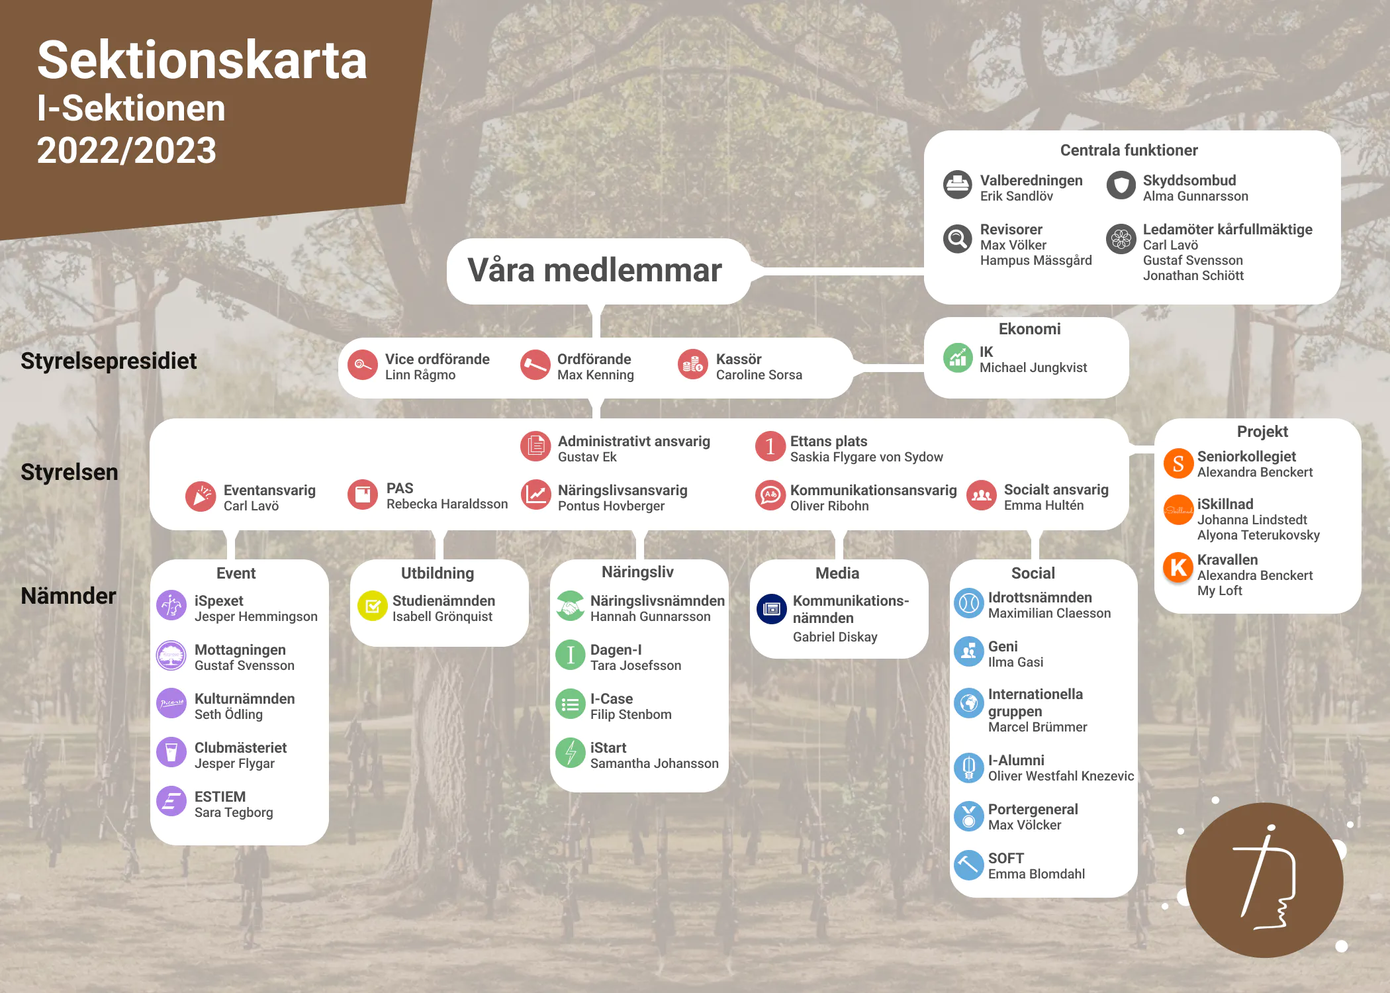
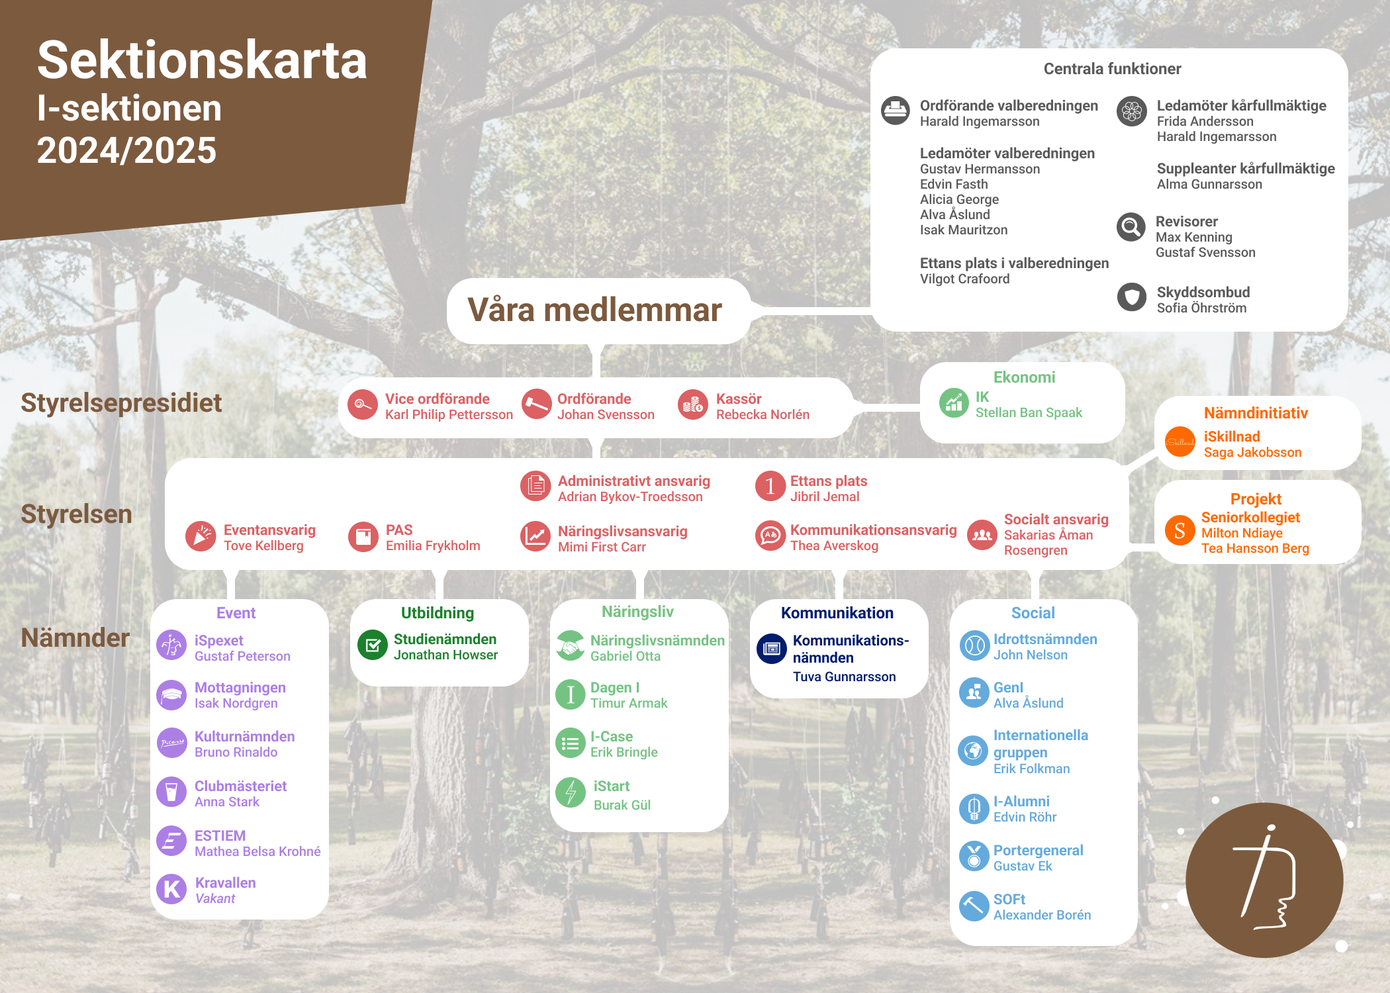
Small fixes + content changes

diff --git a/src/components/HomepageFeatures/styles.module.css b/src/components/HomepageFeatures/styles.module.css
@@ -21,8 +21,8 @@
 }
 
 .eventCard:hover {
-  transform: translateY(-5px);
-  box-shadow: 0 4px 12px rgba(0, 0, 0, 0.15);
+  #transform: translateY(-5px);
+  #box-shadow: 0 4px 12px rgba(0, 0, 0, 0.15);
 }
 
 .eventCard h3 {

diff --git a/i18n/en/docusaurus-plugin-content-docs/current/event/reception.md b/i18n/en/docusaurus-plugin-content-docs/current/event/reception.md
@@ -1,11 +1,9 @@
 # The reception
 
-The reception is one of the chapter's biggest events with over 140 members. The reception is about welcoming the new generation of i-are in the absolute best way, with porter-brown ovvar and schmeck. With two weeks until the start of the semester, we gather on campus and welcome the newly admitted students in the best way we can!
+The reception is about welcoming the new generation of I-are in the absolute best way, with porter-brown ovvars and schmecks. With two weeks until the start of the semester, we gather on campus and welcome the newly admitted students in the best way we can! The reception is the section's biggest event with over 170 members who are there for zero!
 
-The reception is managed by MSG (The reception steering group), with elected ÖPH at the head, which in December starts planning the project alongside the studies. Towards the spring, the Phöset are recruited who ensure that the n0ll's reception experience is the absolute best possible, and the sights are set on August when the entire campus is colored with ovvars and frock coats from all possible chapters. How long does the reception last? It's the best, it lasts as long as needed! Rumor has it that it lasted a year until Christmas...
+The reception is managed by MSG (The reception steering group), with elected ÖPH at the head, which in December starts planning the project alongside the studies. Towards the spring, Phöset is recruited, who ensure that the n0ll's reception experience is the absolute best possible, and the sights are set on August when the entire campus is colored with ovvars and frock coats from all possible sections. How long does the reception last? It's the best, it lasts as long as needed! Rumor has it that it lasted a year until Christmas...
 
-For the past two years, reception has been able to be carried out physically, despite the current pandemic situation, and the reception steering group is continuously evaluating how we can give the newly admitted the absolute best reception, in an infection-proof way.
+Are you thinking of applying for Industrial Economics or are you even a newly admitted I student waiting for Reception to begin? Then you really have something to look forward to! You are on your way to a real adventure and no matter who you are, you will be part of the I section - a place with strong community, lots of laughs and the opportunity for great development. Only the imagination sets limits to where your journey will take you, but one thing is certain is that it starts with the Reception! Phöset looks forward to meeting you and promises to do everything to welcome you in the best possible way, no matter who you are or where you come from. You will soon notice that the Reception consists of several secrets and you will get many surprises along the way, so join us and experience a time you will never forget!
 
-Are you thinking of applying for Industrial Economics or are you even a newly admitted i-are waiting for the Reception to begin? Then you really have something to look forward to! You are on your way to a real adventure and no matter who you are, you will be part of the I chapter - a place with strong community, lots of laughs and the opportunity for great development. Only the imagination sets limits to where your journey will take you, but one thing is certain is that it starts with the Reception! Phöset looks forward to meeting you and promises to do everything to welcome you in the best possible way, no matter who you are or where you come from. You will soon notice that the Reception consists of several secrets and you will get many surprises along the way, so join us and experience a time you will never forget!
-
-Do not hesitate to contact Reception Manager ÖPH Gustaf Svensson at oph@iare.nu if you have any questions. Have a good time and see you soon!
+Do not hesitate to contact Reception Manager ÖPH Isak Nordgren at oph@iare.nu if you have any questions. Have a good time and see you soon!

diff --git a/i18n/en/docusaurus-plugin-content-docs/current/central/valberedningen.md b/i18n/en/docusaurus-plugin-content-docs/current/central/valberedningen.md
@@ -1,16 +1,16 @@
 # Election Committee
 
-The Election Committee
-The chapter's Election Committee consists of three to seven elected members, of which one is the elected President and one seat is reserved for Ettan. The task of the election committee is to promote and manage the election process of all elected positions in the chapter before and during each chapter meeting. In practice, the election process is as follows:
+The election committee at the section consists of three to seven elected members, one of whom is the elected Chairman and one place is reserved for One. The election committee's task is to promote and manage the election process for all elected positions on the section before and during each section meeting. In practical terms, the selection process is as follows:
 
-The election committee opens the application period.
-Interested candidates apply and are then interviewed by the Election Committee.
-Once the Committee has interviewed all the candidates for a particular post, it produces a preamble, or recommendation, which is simply a justification of which candidate it considers most suitable for the post.
-The electoral committee moderates the elections during the associated chapter meeting where all candidates can give speeches and are then elected by the chapter members who attend. It is also possible to run for a position on the spot.
-The Election Committee takes great care to maintain the integrity of all applicants and to make the process as impartial and equal for all as possible. Nomination Committee interviews are designed to prepare the candidate for the SM and is a chance to brainstorm ideas for their speech and ask questions. The Election Committee uses the interview as a basis for compiling a list of candidates for each position - a very difficult task as all the applicant chapter members of the I-chapter are usually highly suitable - and it is worth pointing out that it is the chapter that ultimately chooses the elected representative and the Election Committee therefore encourages all candidates to continue their candidacy regardless of who was nominated.
+1. The selection committee opens the application period.
+2. Interested candidates apply and may then attend an interview with the Selection Committee.
+3. When the selection committee has interviewed all the candidates for a certain position, they draw up a preliminary statement, or recommendation, which is simply a justification for which candidate they consider to be the most suitable for the position.
+4. The election committee moderates the elections themselves during the associated section meeting where all candidates are allowed to give speeches and one/several are then elected by the section members who attend. It is also possible to apply for a post on site.
+
+The selection committee attaches great importance to maintaining the integrity of all applicants and to managing the process as impartially and equally for everyone as possible. The selection committee's interviews are for preparing the candidate for SM and are a chance to brainstorm ideas before their speech and ask questions. The selection committee uses the interview as a basis for compiling a foreword for each position - a very difficult task as all applicant section members of the I-Section are usually highly suitable - and it is worth pointing out that it is the section that ultimately chooses the elected representative and the selection committee encourages therefore all candidates to continue their candidacy regardless of who was nominated.
 
 ### President
 
-__Atle Johansson__ I-21 valberedningen@iare.nu
+__Harald Ingemarsson__ I-22 valberedningen@iare.nu
 
 <img src={require("/static/img/Atle.png").default} width="230"/>

diff --git a/docs/event/reception.md b/docs/event/reception.md
@@ -1,11 +1,9 @@
 # Mottagningen
 
-Mottagningen är en av sektionens största event med över 140 medlemmar. Mottagningen handlar om att på absolut bästa sätt, med porterbruna ovvar och schmeck, välkomna den nya generationen i-are. Med två veckor till terminsstart samlas vi på campus och tar emot de nyantagna på det bästa sättet vi kan!
+Mottagningen handlar om att på absolut bästa sätt, med porterbruna ovvar och schmeckar, välkomna den nya generationen I-are. Med två veckor till terminsstart samlas vi på campus och tar emot de nyantagna på det bästa sättet vi kan! Mottagningen är sektionens största event med över 170 medlemmar som finns där för n0llans skull!
 
 Mottagningen styrs av MSG (Mottagningens styrgrupp), med förtroendevalda ÖPH i spetsen, som i december börjar planera projektet vid sidan av studierna. Mot våren rekryteras Phöset som är de som ser till att n0llans Mottagningsupplevelse blir den absolut bästa möjliga, och siktet ställs in på augusti när hela campus färgläggs med ovvar och frackar från alla möjliga sektioner. Hur länge pågår då Mottagningen? Det är det bästa, den håller på så länge det behövs! Ryktet sägs att den ett år hållit på ända till jul...
 
-De senaste två åren har Mottagningen, trots nuvarande pandemiläge, kunnat genomföras fysiskt och Mottagningens styrgrupp utvärderar kontinuerligt hur vi kan ge de nyantagna den absolut bästa Mottagningen, på ett smittsäkert sätt.
-
-Funderar du på att söka Industriell Ekonomi eller är du till och med en nyantagen i-are som väntar på att Mottagningen ska börja? Då har du verkligen någonting att se fram emot! Du är på väg mot ett riktigt äventyr och oavsett vem du är så kommer du bli en del av I-sektionen – en plats med stark gemenskap, många skratt och möjlighet till stor utveckling. Bara fantasin sätter gränser för vart din resa leder dig, men något som är säkert är att det börjar med Mottagningen! Phöset ser fram emot att träffa dig och lovar att göra allt för att välkomna dig på bästa sätt, oavsett vem du är eller var du kommer ifrån. Du kommer snart märka att Mottagningen består av flera hemligheter och du kommer få många överraskningar längs vägens gång, så häng med oss och upplev en tid du aldrig kommer glömma!
+Funderar du på att söka Industriell Ekonomi eller är du till och med en nyantagen I-are som väntar på att Mottagningen ska börja? Då har du verkligen någonting att se fram emot! Du är på väg mot ett riktigt äventyr och oavsett vem du är så kommer du bli en del av I-sektionen – en plats med stark gemenskap, många skratt och möjlighet till stor utveckling. Bara fantasin sätter gränser för vart din resa leder dig, men något som är säkert är att det börjar med Mottagningen! Phöset ser fram emot att träffa dig och lovar att göra allt för att välkomna dig på bästa sätt, oavsett vem du är eller var du kommer ifrån. Du kommer snart märka att Mottagningen består av flera hemligheter och du kommer få många överraskningar längs vägens gång, så häng med oss och upplev en tid du aldrig kommer glömma!
 
 Tveka dig inte att höra av dig till Mottagningsansvariga ÖPH Isak Nordgren på oph@iare.nu om du har några som helst frågor. Ha det bra så ses vi snart!

diff --git a/docs/event/culture.md b/docs/event/culture.md
@@ -1,21 +1,17 @@
 # Kulturnämnden
 
-## Verksamhet
+### Verksamhet
+Kulturnämnden är en relativt nystartad nämnd och är en av de nämnder inom sektionen som har lösast definierat syfte, vilket innebär att vi har mycket frihet i det vi gör! Några vinnande koncept inom nämnden under åren har varit ost- och vinprovningar, kompissittningar och Tunnelbanesittningen. 
 
-Kulturnämnden består av cirka fyrtio I-are som brinner för att anordna event och sittningar med en underton av kultur. Trots att Kulturnämnden är en av sektionens yngre nämnder har vi redan gjort ett avsevärt och bestående intryck på sektionens traditioner och verksamhet; Tunnelbanesittningen, där I-are i par ges chansen att äta middag med och hos två andra par I-are, är redan en älskad klassiker, och under Kompissittningen, som gjorde en efterlängtad comeback förra året, ges I-aren chansen att visa en utomstående hur en riktig sittning på I går till. Utöver detta kommer andra event, som Midsommarsittning, Ost- och Vinprovning, samt olika pubar och fikan, arrangeras. För första gången någonsin kommer vi dessutom vara I-sektionens ansikte utåt under Valborgspubrundan, och allt detta kommer självklart att varvas med en hel del roliga internevent.
-
-## Organisation
-
-Som medlem i Kulturnämnden blir du en del av en tajt projektgrupp där vi tillsammans planerar och genomför roliga event, med målet att förgylla varje I-ares studietid. Det innebär rent praktiskt att bidra med tankar och idéer, stå i baren, laga mat, dekorera, styra musiken, blanda drinkar, och självklart städa efteråt! Vi söker dig som är engagerad, nytänkande, vet hur man festar med stil och finess, och gillar att komma först och gå sist. På grund av nämndens unga ålder finns det även stora möjligheter att sätta sin egen prägel på nämnden. Kanske blir just du den som inför nästa stora tradition till sektionen?
-
-Vill du liksom oss förgylla varje I-ares studietid med spännande och nytänkande event har du hittat helt rätt! Hoppas vi ses på våra event under året!
-
+### Organisation
+Nämnden består av ca 40 studenter, vilket är perfekt för att lära känna folk på sektionen, dels i den egna årskursen, men även studenter i andra årskurser. Som medlem är du med i ett skönt gäng där vi tillsammans utvecklar och kommer på nya idéer till våra event där målet är att skapa ett spännande och händelserikt studentliv på sidan om studierna. Vi hoppas att vi ses på våra events under året!
 
 
 ## Kulturattaché
 
-__Selma Hagelin__ I-22
+__Bruno Rinaldo__ I-23
 
 kultur@iare.nu
 
-<img src={require("/static/img/Selma.jpg").default} width="230"/>
+<img src={require("/static/img/selma.jpg").default} width="230"/>
+

diff --git a/i18n/en/docusaurus-plugin-content-docs/current/event/culture.md b/i18n/en/docusaurus-plugin-content-docs/current/event/culture.md
@@ -1,20 +1,15 @@
 # Culture Committee
 
 ## Activities
-
-The Culture Committee consists of about forty I-ers who are passionate about organizing events and meetings with an undertone of culture. Even though the Culture Committee is one of the chapter's younger committees, we have already made a significant and lasting impression on the chapter's traditions and activities; the Subway Sitting, where I-ers in pairs are given the chance to have dinner with and at two other pairs of I-ers, is already a beloved classic, and during the Compass Sitting, which made a long-awaited comeback last year, the I-ers are given the chance to show an outsider how a real sitting on the I goes. In addition to this, other events, such as Midsummer Sitting, Cheese and Wine Tasting, as well as various pubs and fika, will be arranged. For the first time ever, we will also be the face of the I-chapter during Valborgspubrundan, and all this will of course be interspersed with a lot of fun internal events.
+The culture board is a relatively new board and is one of the boards within the section that has the most loosely defined purpose, which means that we have a lot of freedom in what we do! Some winning concepts within the committee over the years have been cheese and wine tastings, friend sittings and the Subway sitting.
 
 ## Organisation
 
-As a member of the Cultural Committee, you will be part of a tight project group where we together plan and implement fun events, with the goal of brightening each first-year's study time. In practical terms, this means contributing thoughts and ideas, standing at the bar, cooking, decorating, controlling the music, mixing drinks, and of course cleaning up afterwards! We are looking for someone who is committed, innovative, knows how to party with style and finesse, and likes to arrive first and leave last. Due to the committee's young age, there are also great opportunities to put one's own stamp on the committee. Perhaps you will be the only one to introduce the next great tradition to the chapter?
-
-If, like us, you want to brighten up each first year's study time with exciting and innovative events, you've come to the right place! Hope to see you at our events during the year!
-
-
+The committee consists of about 40 students, which is perfect for getting to know people in the section, partly in your own year, but also students in other years. As a member, you are part of a nice group where we together develop and come up with new ideas for our events where the goal is to create an exciting and eventful student life on the side of studies. We hope to see you at our events during the year!
 
 ## Cultural attache
 
-__Selma Hagelin__ I-22
+__Bruno Rinaldo__ I-23
 
 kultur@iare.nu
 

diff --git a/docs/central/valberedningen.md b/docs/central/valberedningen.md
@@ -2,14 +2,15 @@
 
 Valberedningen på sektionen består av tre till sju förtroendevalda ledamöter, varav en är förtroendevald Ordförande och en plats är reserverad för Ettan. Valberedningens uppgift är att marknadsföra och sköta valprocessen av alla förtroendevalda poster på sektionen inför och under varje sektionsmöte. Valprocessen går rent praktiskt till som följande:
 
-Valberedningen öppnar ansökningsperioden.
-Intresserade kandidater ansöker och får därefter komma på intervju med valberedningen.
-När valberedningen har intervjuat alla kandidater till en viss post tar de fram en förordan, eller rekommendation, som helt enkelt är en motivering till vilken kandidat de anser är lämpligast för posten.
-Valberedningen modererar själva valen under tillhörande sektionsmöte där alla kandidater får hålla anföranden och förtroendeväljs sedan av de sektionsmedlemmarna som närvarar. Det går även att ställa upp till en post på plats.
+1. Valberedningen öppnar ansökningsperioden.
+2. Intresserade kandidater ansöker och får därefter komma på intervju med Valberedningen.
+3. När valberedningen har intervjuat alla kandidater till en viss post tar de fram en förordan, eller rekommendation, som helt enkelt är en motivering till vilken kandidat de anser är lämpligast för posten.
+4. Valberedningen modererar själva valen under tillhörande sektionsmöte där alla kandidater får hålla anföranden och en/flera väljs sedan av de sektionsmedlemmarna som närvarar. Det går även att ställa upp till en post på plats.
+
 Valberedningen lägger stor vikt vid att bibehålla integriteten hos alla sökande och att sköta processen så opartiskt och lika för alla som möjligt. Valberedningens intervjuer är till för att förbereda kandidaten för SM och är en chans att bolla idéer inför sitt anförande och ställa frågor. Valberedningen använder intervjun som underlag för att sammanställa en förordan till varje post – en mycket svår uppgift då alla sökande sektionsmedlemmar på I-Sektionen oftast är högst lämpliga – och det är värt att påpeka att det är sektionen som i slutändan väljer den förtroendevalde och valberedningen uppmuntrar därför samtliga kandidater att fortsätta sin kandidatur oavsett vem som blev förordad.
 
 ### Ordförande
 
-__Atle Johansson__ I-21 valberedningen@iare.nu
+__Harald Ingemarsson__ I-22 valberedningen@iare.nu
 
 <img src={require("/static/img/Atle.png").default} width="230"/>

diff --git a/i18n/en/docusaurus-plugin-content-docs/current/event/estiem.md b/i18n/en/docusaurus-plugin-content-docs/current/event/estiem.md
@@ -5,4 +5,12 @@ ESTIEM, European Students of Industrial Engineering and Management, is a coopera
 ESTIEM at KTH works in projects and organizes a few major events per year. Examples of these are the case solution competition TIMES (Tournament In Management and Engineering Skills), where the best teams from each university go on to semi-finals and finally a final to select the European champions, and Destination X, a trip where about 50 I-students go to an unknown destination to have fun together. In addition to this, we also organize smaller exchanges with other ESTIEMers, where we for example travel as a group to another city in Europe to hang out with other I-students and have fun!
 
 ### Organization
-ESTIEM at KTH is made up of a small board and a number of project managers. After recruitment in the fall, each project manager is assigned a project group. In total, the board consists of
+ESTIEM at KTH is made up of a small board and a number of project managers. After recruitment in the fall, each project manager is assigned a project group. There are about 30 members in total where 4 people are board members and 4 project leaders.
+
+### Contact
+You can reach ESTIEM's president at estiem@iare.nu or the local responsible at lr_stockholm@estiem.org
+
+#### President
+__Namn__ I-XX estiem@iare.nu
+
+<img src={require("/static/img/Emil.jpg").default} width="230"/>

diff --git a/docs/projects/iskillnad.md b/docs/projects/iskillnad.md
@@ -1,8 +1,11 @@
 # iSkillnad
 
-iSkillnad är Sektionen för Industriell Ekonomis nämnd med fokus upp hållbarhet. Med grund i Agenda 2030-målen anordnar iSkillnad olika event under året för att uppmärksamma olika hållbarhetsfrågor. Vårt mål är att få fler Iare engagerade i hållbarhet samt göra det lättare för sektionen i stort att bli mer hållbara.
+iSkillnad är ett nämndinitiativ som har som syfte att aktivt bidra till FNs hållbarhetsmål, Agenda 2030. Vi agerar bland annat som en plattform för att underlätta hållbarhetsarbetet hos andra nämnder samt för sektionen i sin helhet. Dessutom arrangerar vi även egna event kopplade till Agenda 2030.
 
+Vi anordnar bland annat frukostar med företag som jobbar med hållbarhet på olika sätt. Dessutom håller vi varje år en Musikhjälpen-pub där vi i sektionen tillsammans samlar in pengar som skänks till Musikhjälpen. Vårt största event är välgörenhetsloppet Run for Change, där vi tillsammans med företag springer ett lopp och samtidigt skänker pengar till välgörenhet.
+
+Vi samarbetar både med andra nämnder på sektionen och välgörenhetsorganisationer för att tillsammans bidra till ett hållbart samhälle.
 ### Ordförande
-__Martha Päären__ I-22 iskillnad@iare.nu
+__Saga Jakobsson__ I-23 iskillnad@iare.nu
 
 <img src={require("/static/img/Martha.jpg").default} width="230"/>

diff --git a/i18n/en/docusaurus-plugin-content-docs/current/projects/iskillnad.md b/i18n/en/docusaurus-plugin-content-docs/current/projects/iskillnad.md
@@ -1,7 +1,10 @@
 # iSkillnad
 
-iSkillnad is the chapter for Industrial Economics' committee with a focus on sustainability. Based on the Agenda 2030 goals, iSkillnad organizes various events during the year to draw attention to various sustainability issues. Our goal is to get more Iars involved in sustainability and to make it easier for the chapter as a whole to become more sustainable.
+Skillnad is a board initiative that aims to actively contribute to the UN's sustainability goals, Agenda 2030. Among other things, we act as a platform to facilitate the sustainability work of other boards and for the section as a whole. In addition, we also arrange our own events linked to Agenda 2030.
 
+Among other things, we organize breakfasts with companies that work with sustainability in various ways. In addition, every year we hold a Musikhjälpen pub where we in the section together collect money that is donated to Musikhjälpen. Our biggest event is the Run for Change charity race, where we run a race together with companies and donate money to charity at the same time.
+
+We collaborate both with other committees in the section and with charitable organizations to jointly contribute to a sustainable society.
 ### Chairman
 __Martha Päären__ I-22 iskillnad@iare.nu
 

diff --git a/docs/social/soft.md b/docs/social/soft.md
@@ -8,7 +8,7 @@ SOFt är nämnden för dig som är nyfiken och öppen för att lösa problem och
 
 ### Ordförande
 
-__Sakarias Åman Rosengren__ I-22, soft@iare.nu
+__Alexander Borén__ I-22, soft@iare.nu
 
 <img src={require("/static/img/Sakarias.jpg").default} width="230"/>
 

diff --git a/i18n/en/docusaurus-plugin-content-docs/current/social/soft.md b/i18n/en/docusaurus-plugin-content-docs/current/social/soft.md
@@ -8,6 +8,6 @@ SOFt is the committee for those who are curious and open to solving problems and
 
 ### Chairperson
 
-__Sakarias Åman Rosengren__ I-22, soft@iare.nu
+__Alexander Borén__ I-22, soft@iare.nu
 
 <img src={require("/static/img/Sakarias.jpg").default} width="230"/>.
